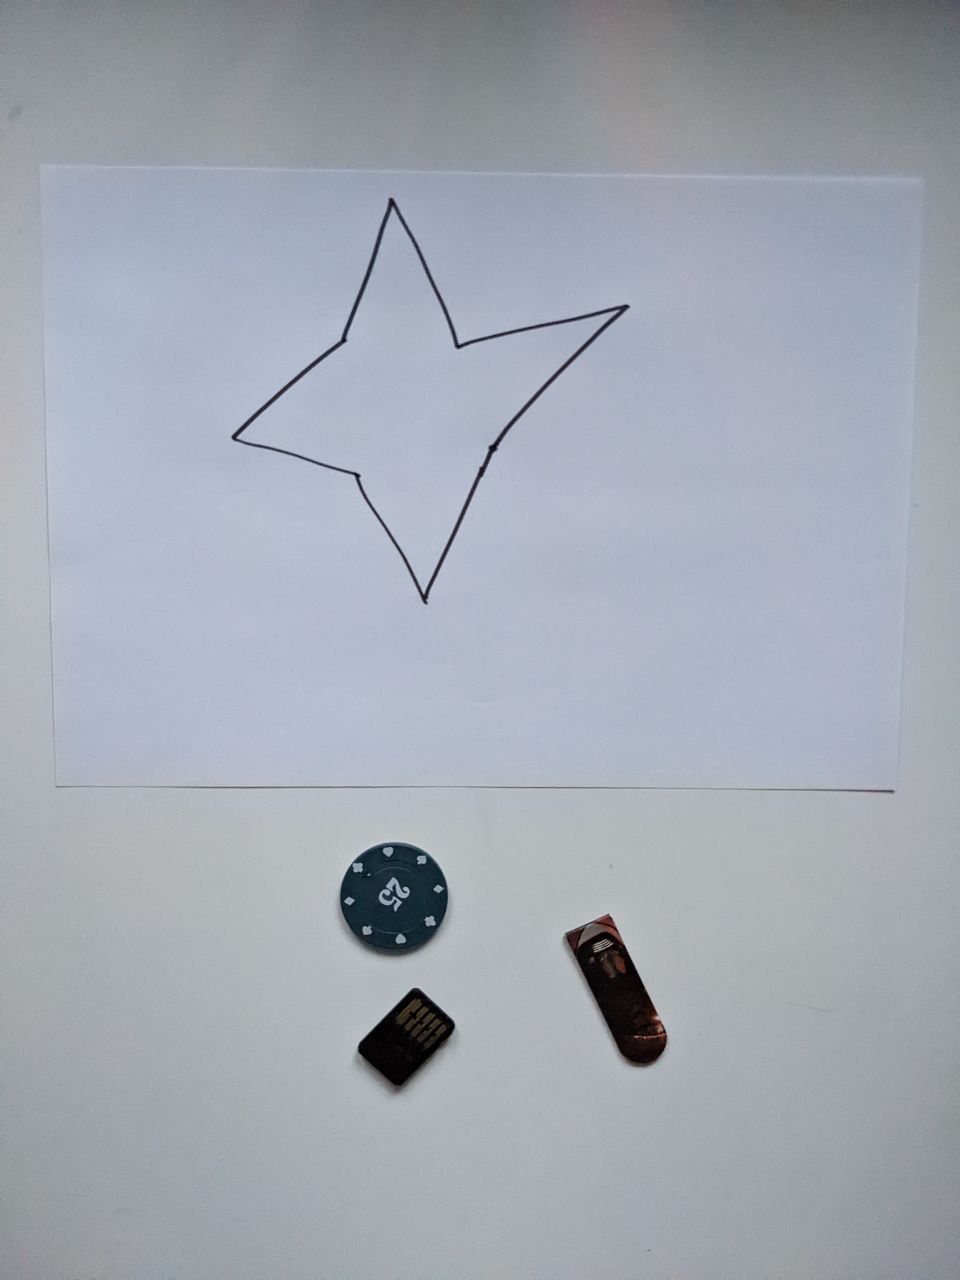
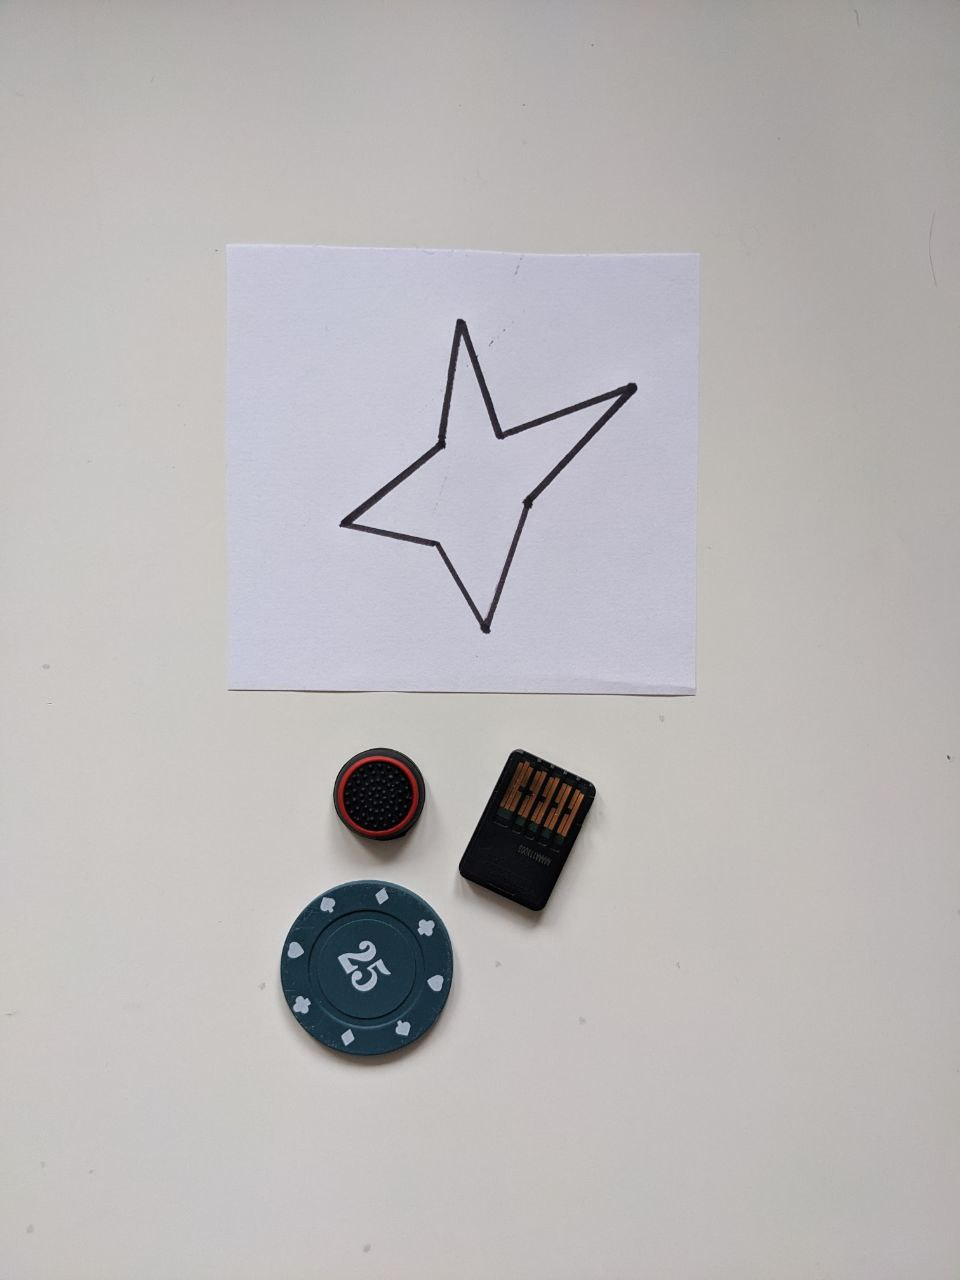
Added fixes after review

diff --git a/README.md b/README.md
@@ -12,7 +12,8 @@
 ## Требования
 ### Требования к фотографиям
 + Формат - jpg
-+ Сделаны с одного устройства, разрешение камеры не менее 12 мп
++ Вертикальные
++ Соотношение сторон 4:3
 + Расстояние от камеры до поверхности не более 50 см
 + Отклонение направления камеры от перпендикуляра к горизонтальной поверхности не превышает 15 градусов
 + Цветные, без сжатия, фильтров или любой другой коррекции
@@ -23,14 +24,12 @@
 + Полностью помещаются в кадр
 + Не сливаются с листом бумаги/поверхностью
 + Не перекрывают друг друга
-+ Не пересекаются с многоугольником
-+ На фотографии располагаются ниже листа с многоугольником
++ Не пересекаются с многоугольником, но могут находиться на листе бумаги с многоугольником
 
 ### Требования к многоугольнику:
 + Выпуклый
 + Имеет не более 6 вершин
-+ Нарисован черным маркером/фломасетром на белом листе бумаги
-+ На фотографии располагается выше всех предметов
++ Нарисован черным маркером/фломасетром на белом листе бумаги; На формат листа бумаги ограничений нет
 
 ### Требования к поверхности:
 + Однотонная горизонтальная поверхность белого цвета 

diff --git a/test_cases/true/README.md b/test_cases/true/README.md
@@ -1,21 +1,24 @@
 # Тестовые данные, выдающие true
-1) Большой многоугольник и все предметы помещаются
+1) Нет предметов вовсе, но есть прямоугольник
+![test 1](1.jpg "test 1")
+
+2) Большой многоугольник и все предметы помещаются
 ![test 2](2.jpg "test 2")
 
-2) Многоугольник поменьше, но предметы все ещё помещаются
+3) Многоугольник поменьше, но предметы все ещё помещаются
 ![test 4](4.jpg "test 4")
 
-3) Маленький предмет помещается в многоугольник
+4) Маленький предмет помещается в многоугольник
 ![test 6](6.jpg "test 6")
 
-4) Маленький многоугольник, но все предметы помещаются
+5) Маленький многоугольник, но все предметы помещаются
 ![test 7](7.jpg "test 7")
 
-5) Все предметы помещаются
+6) Все предметы помещаются
 ![test 15](15.jpg "test 15")
 
-6) Все предметы помещаются
+7) Все предметы помещаются
 ![test 19](19.jpg "test 19")
 
-7) Все предметы помещаются
+8) Все предметы помещаются
 ![test 20](20.jpg "test 20")

diff --git a/test_cases/false/README.md b/test_cases/false/README.md
@@ -1,8 +1,5 @@
 # Тестовые данные, выдающие false
-1) Нет объектов
-![test 1](1.jpg "test 1")
-
-2) Нет многоугольника
+1) Нет многоугольника
 ![test 3](3.jpg "test 3")
 
 2) Маленький предмет не помещается в многоугольник
